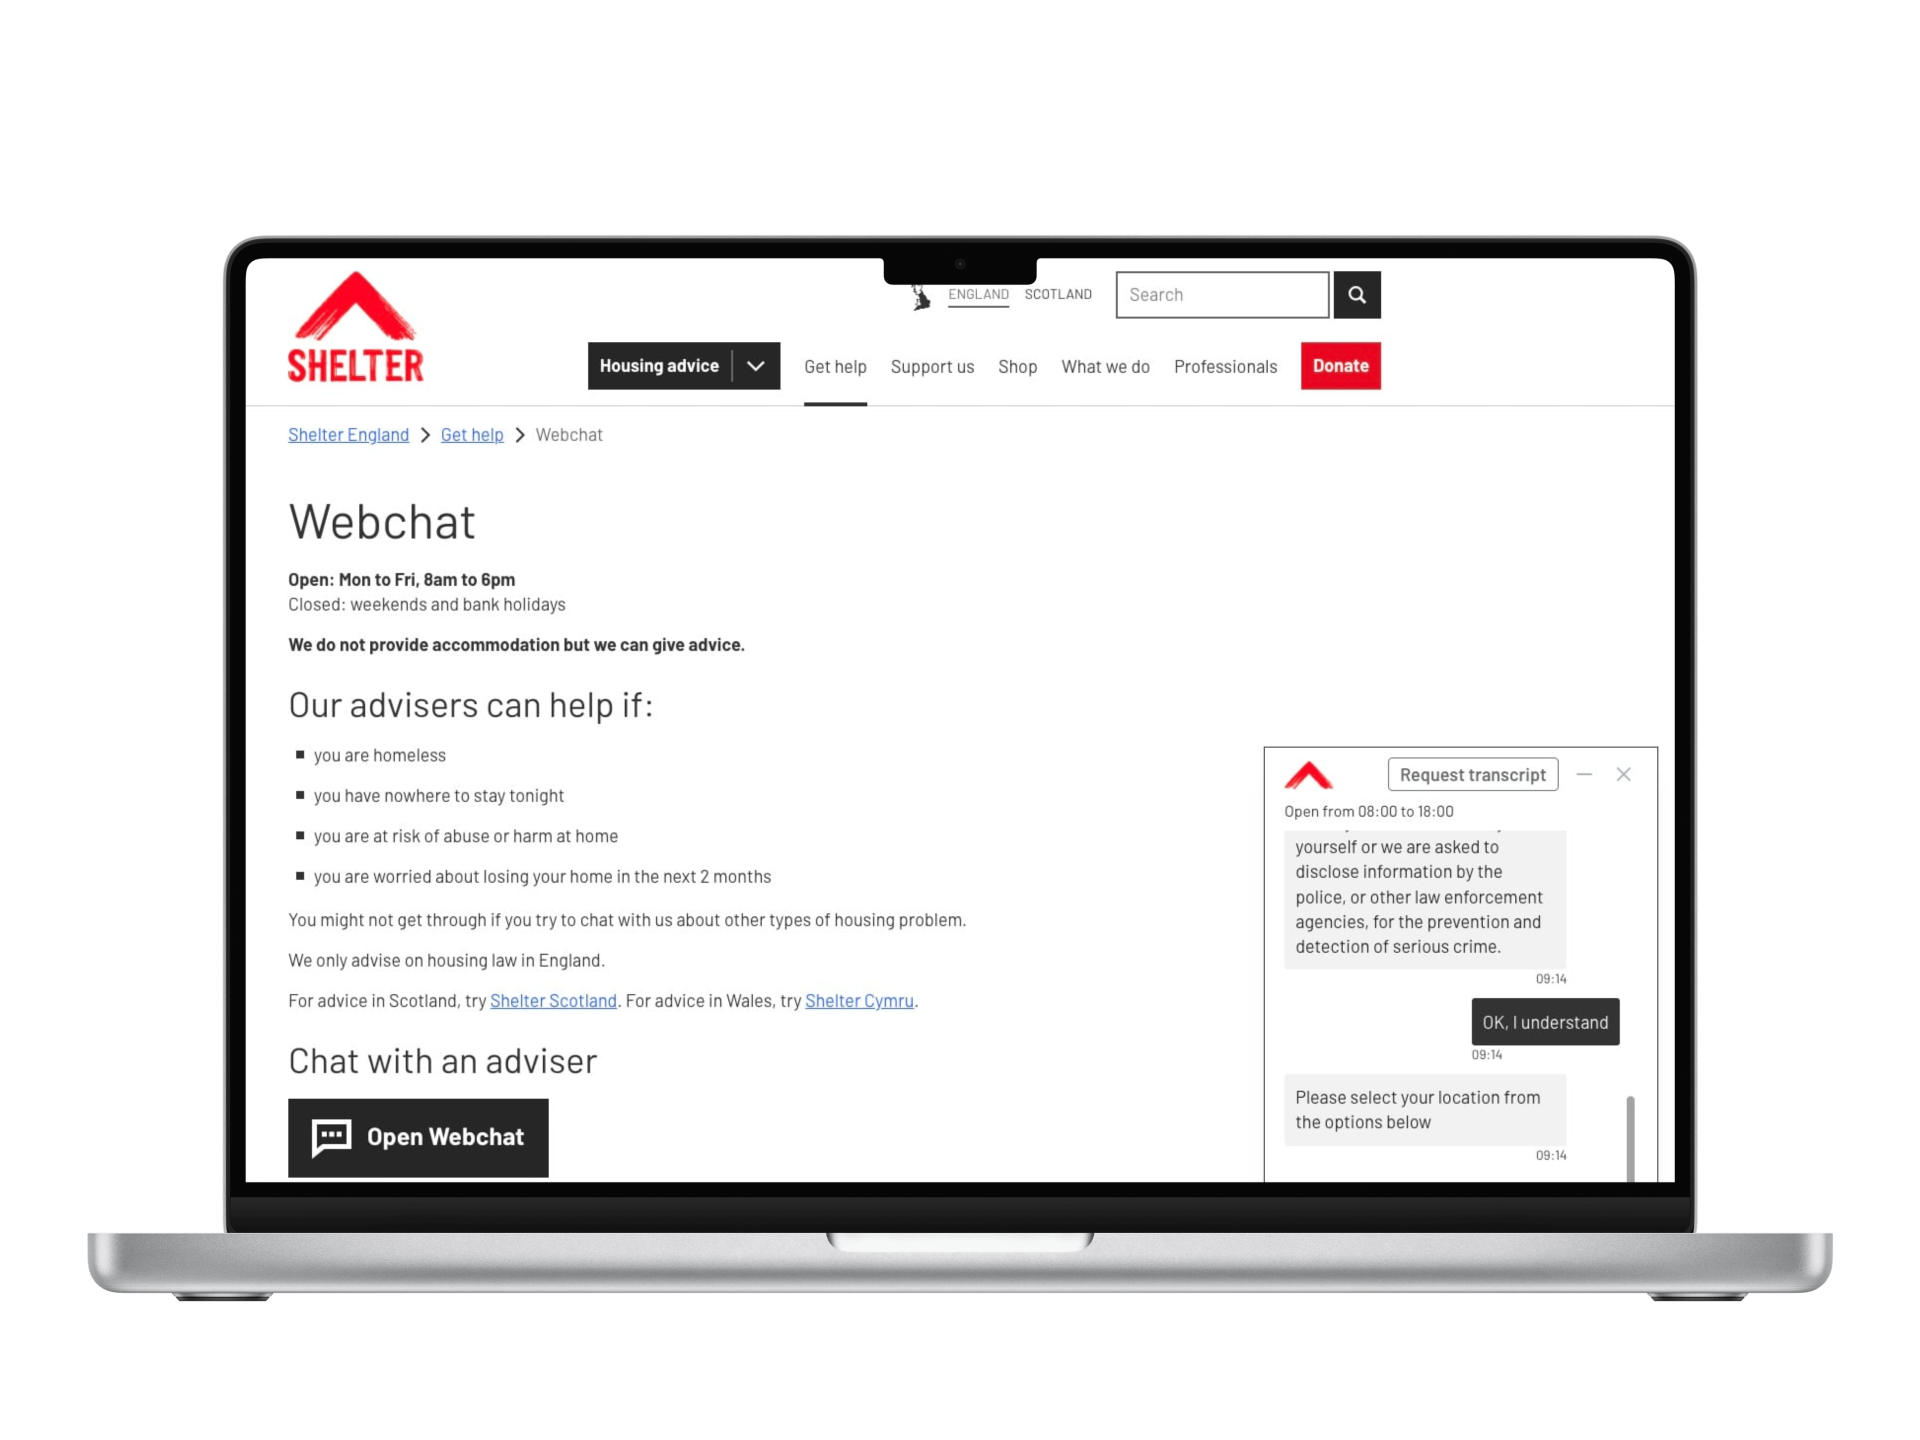
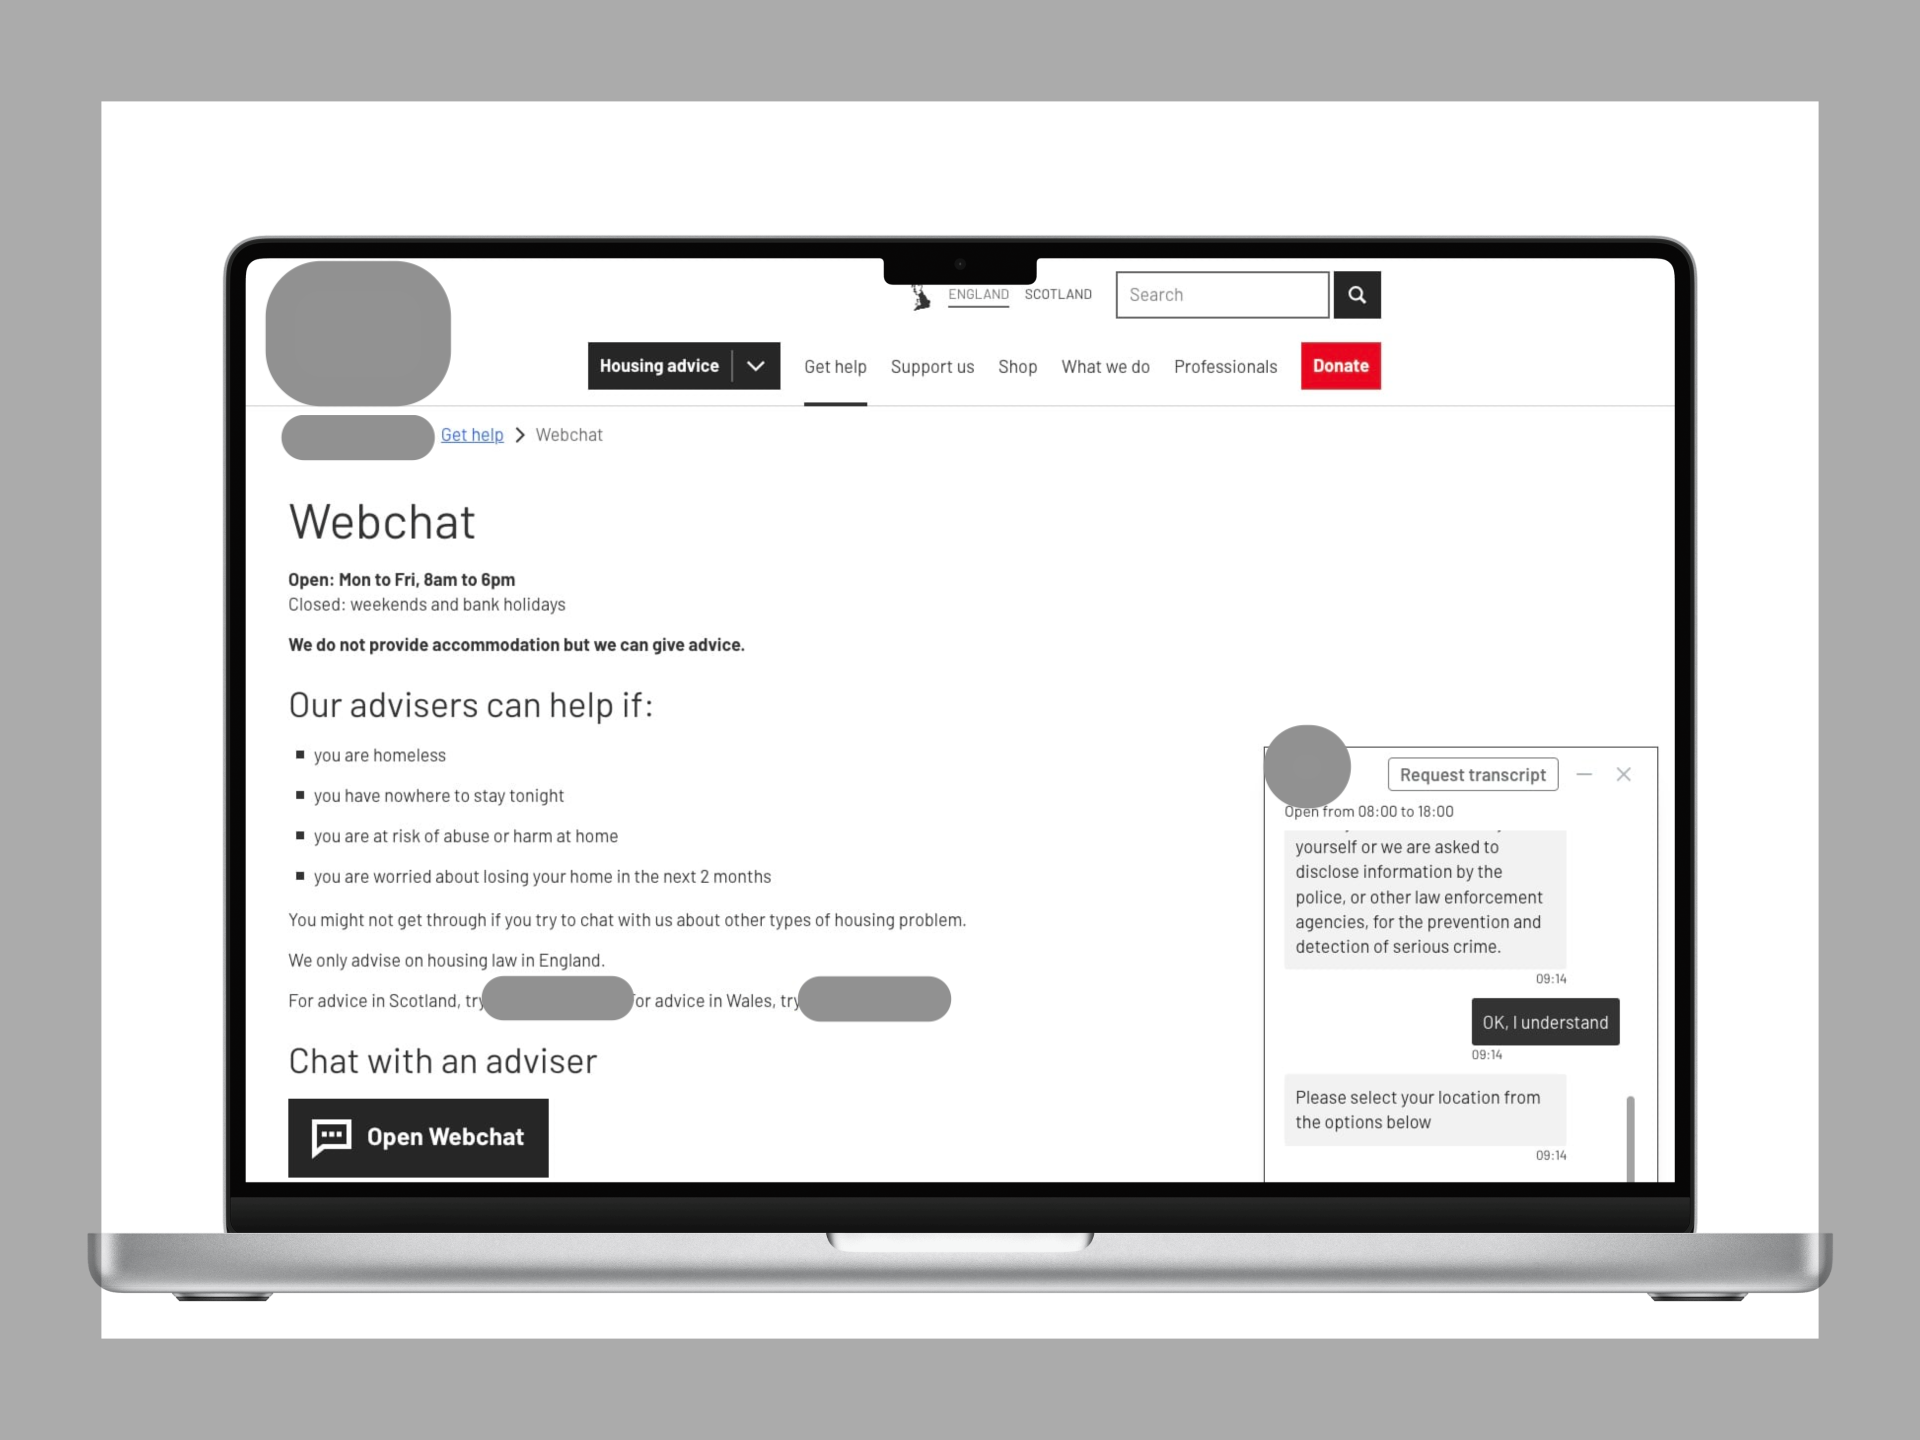
major: #55 - Start of anonymising case studies
Updated the Shelter case study identifiers and titles to reflect the homelessness webchat work and the UK homelessness and housing charity context. This also refreshes the associated case study image so the project content and branding stay consistent.

diff --git a/src/pages/CaseStudies/projectsData.ts b/src/pages/CaseStudies/projectsData.ts
@@ -23,8 +23,8 @@ export interface Project {
 
 export const projects: Project[] = [
   {
-    id: "shelter",
-    title: "Shelter",
+    id: "homelessness-webchat",
+    title: "UK Homlessness and Housing Charity",
     role: "Frontend / Research / Design",
     summary:
       "Digital advice webchat for people facing homelessness or harm in the UK.",

diff --git a/src/pages/CaseStudies/shelter_simple.tsx b/src/pages/CaseStudies/shelter_simple.tsx
@@ -3,7 +3,7 @@ import { caseStudiesData } from "./CaseStudiesData";
 
 const CaseStudyShelter = () => {
   const index = caseStudiesData.findIndex(
-    (cs) => cs?.id === "shelter"
+    (cs) => cs?.id === "homelessness-webchat"
   );
 
   if (index === -1) {

diff --git a/src/pages/CaseStudies/CaseStudiesData.ts b/src/pages/CaseStudies/CaseStudiesData.ts
@@ -35,7 +35,7 @@ export interface CaseStudy {
 
 export const caseStudiesData: CaseStudy[] = [
   {
-    id: "shelter",
+    id: "homelessness-webchat",
     title: "Shelter",
     tagline: "Digital Advice Webchat & Ongoing Product Ownership",
     roles: [
